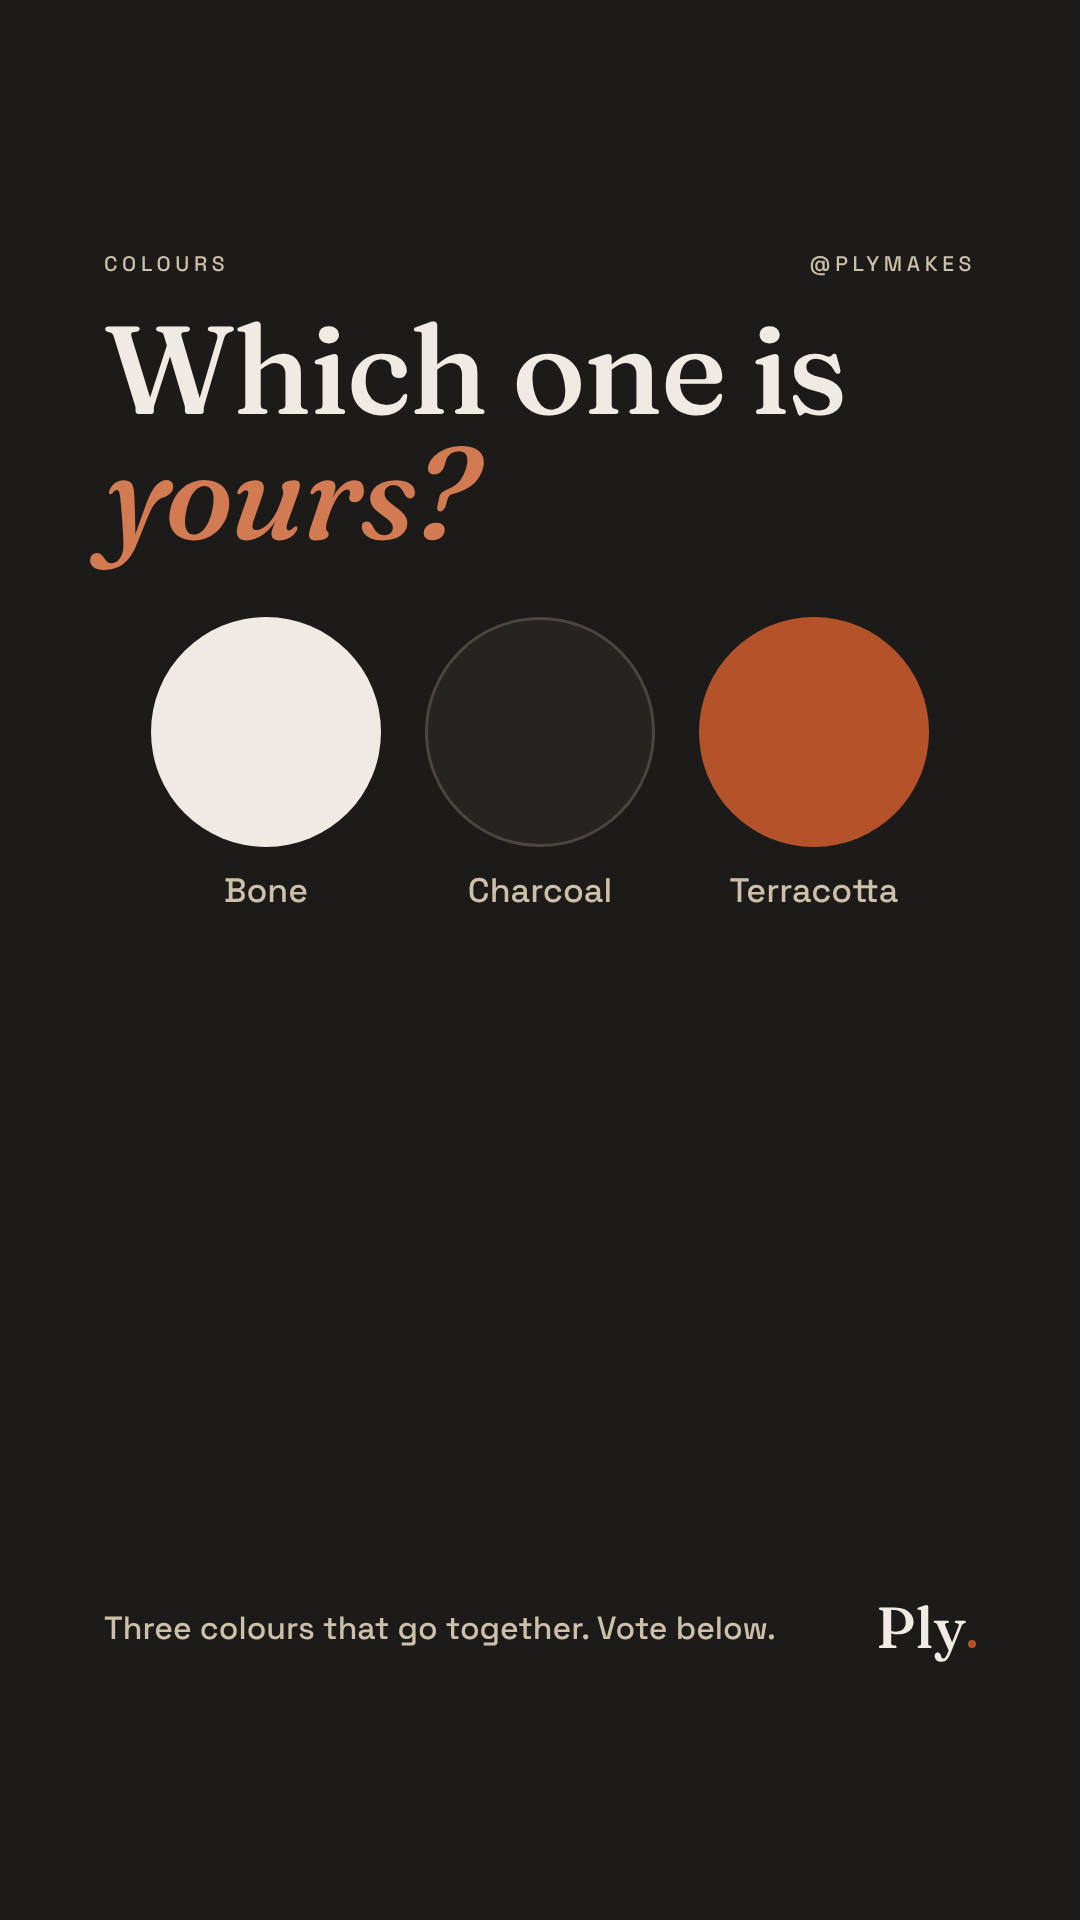
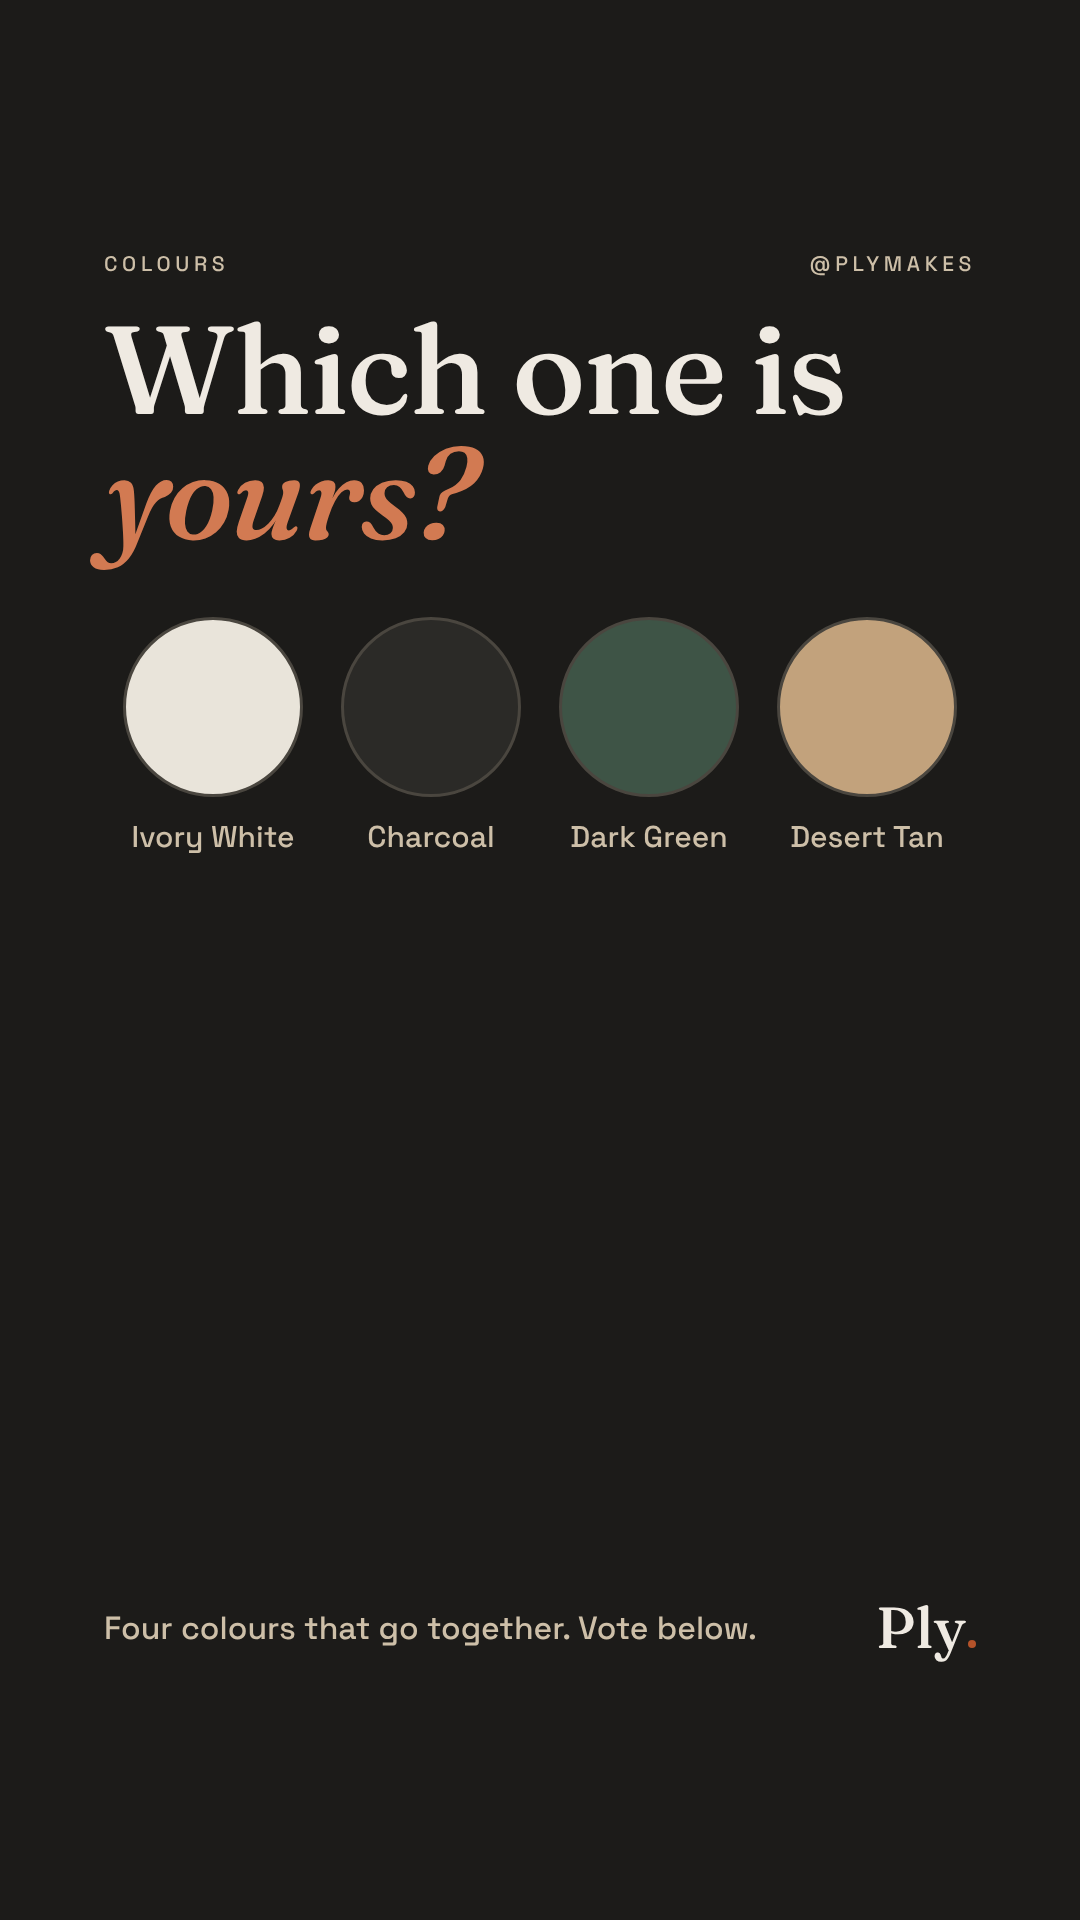
Stories 07-17 with labelled renders; story kit 04 redone for the four product colours; render Reel generator
Claude-Session: https://claude.ai/code/session_01P3SEcsEDtCsPBtCFZ7pCzX

Changed region(s): [[0.0917, 0.3125, 0.8861, 0.4688], [0.2139, 0.8438, 0.7028, 0.875], [0.0917, 0.8438, 0.1833, 0.875]]

diff --git a/tools/reels_renders_2026_10_19.py b/tools/reels_renders_2026_10_19.py
@@ -1,0 +1,138 @@
+"""Reels built from the Quilt and Tile studio renders (19 Oct 2026: Geoffry allowed renders on Instagram, labelled as 3D renders).
+Same engine as reels.py / reels_brand.py; images come from shop/products and shop/banners.
+Usage: python3 tools/reels_renders_2026_10_19.py [name-filter] -> build/<name>-v3.mp4 (+ -v3-preview.png)
+"""
+import runpy, sys
+from pathlib import Path
+flt = sys.argv[1:]
+m = runpy.run_path(str(Path(__file__).resolve().parent / 'reels.py'), run_name='lib')
+C, SU, R, I, P, end_card, render = m['C'], m['SU'], m['R'], m['I'], m['P'], m['end_card'], m['render']
+ROOT = Path(__file__).resolve().parent.parent
+ACC_D, ACC_L = '#D27A52', '#9C4421'
+
+
+def img(name):
+    folder = 'banners' if name.startswith('drainage') else 'products'
+    return (ROOT / 'shop' / folder / name).as_uri()
+
+
+def endc(bg, fg, l2):
+    return end_card(bg, fg, 'Made in layers.<br>Made in Lebanon.', l2).replace('font-size:120px', 'font-size:92px')
+
+
+def head(label, title, fg, lab):
+    return (f'<div id="lab" class="abs label" style="left:100px;top:180px;color:{lab}">{label}</div>'
+            f'<div id="t1" class="abs h" style="left:100px;right:100px;top:250px;font-size:116px;color:{fg}">{title}</div>')
+
+
+def tag(text='3D render'):
+    """Small pill inside an image card so every render is labelled."""
+    return (f'<div style="position:absolute;left:24px;bottom:24px;padding:10px 20px;border-radius:999px;background:rgba(239,234,226,.92);'
+            f'color:{I};font-size:22px;font-weight:500;letter-spacing:.18em;text-transform:uppercase">{text}</div>')
+
+
+def card(id_, src, left, top, w, h, extra='', pos='center'):
+    return (f'<div id="{id_}" class="abs" style="left:{left}px;top:{top}px;width:{w}px;height:{h}px;border-radius:28px;overflow:hidden;opacity:0;{extra}">'
+            f'<img src="{src}" style="width:100%;height:100%;object-fit:cover;object-position:{pos};display:block">{tag()}</div>')
+
+
+HEAD_JS = "show('lab',prog(t,0,.6),30); show('t1',prog(t,.2,.9),40);"
+END_JS = "const e=prog(t,{a},{a}+.5); document.getElementById('end').style.opacity=e; show('e1',prog(t,{a}+.3,{a}+.9),40); show('e2',prog(t,{a}+.7,{a}+1.3),40);"
+
+# ---------- Reel 10: Quilt or Tile? ----------
+reel10 = dict(name='ply-reel-10-quilt-or-tile', dur=10.5, html=f'''
+<div class="abs" style="inset:0;background:{I}"></div>
+{head('Quilt or Tile?', 'Two textures.<br><i style="color:{ACC_D}">Which one?</i>', P, SU)}
+{card('cq', img('quilt-planter-medium-charcoal.jpg'), 90, 640, 430, 560)}
+{card('ct', img('tile-planter-medium-charcoal.jpg'), 560, 640, 430, 560)}
+<div id="lq" class="abs" style="left:90px;width:430px;top:1230px;text-align:center;color:{P};opacity:0"><div class="h" style="font-size:120px">Q</div><div style="font-size:36px;font-weight:500;letter-spacing:.22em;margin-top:6px">QUILT</div></div>
+<div id="lt" class="abs" style="left:560px;width:430px;top:1230px;text-align:center;color:{P};opacity:0"><div class="h" style="font-size:120px">T</div><div style="font-size:36px;font-weight:500;letter-spacing:.22em;margin-top:6px">TILE</div></div>
+<div id="t2" class="abs" style="left:100px;right:100px;top:1470px;font-size:46px;font-weight:500;color:{P};opacity:0">Same planter, two textures.<br>Comment Q or T.</div>
+{endc(C, P, 'Comment Q or T,<br>then DM “FIRST” for first pick')}
+''', js='''
+window.setT=t=>{ ''' + HEAD_JS + '''
+  const a=prog(t,1.0,1.7), b=prog(t,1.6,2.3);
+  const q=document.getElementById('cq'), w=document.getElementById('ct');
+  q.style.opacity=a; q.style.transform=`translateX(${(1-a)*-520}px)`;
+  w.style.opacity=b; w.style.transform=`translateX(${(1-b)*520}px)`;
+  show('lq',prog(t,2.3,2.9),30); show('lt',prog(t,2.6,3.2),30);
+  const pulse=t>3.6&&t<7.2?Math.floor((t-3.6)/0.9)%2:-1;
+  q.style.boxShadow=pulse===0?`0 0 0 8px ${'#D27A52'}`:'none'; w.style.boxShadow=pulse===1?`0 0 0 8px ${'#D27A52'}`:'none';
+  show('t2',prog(t,3.4,4.0),30); ''' + END_JS.format(a=7.4) + '''
+};''')
+
+# ---------- Reel 11: four colours ----------
+cols = [('ivory', 'Ivory White', '#E9E4DA'), ('charcoal', 'Charcoal', '#2B2A27'), ('green', 'Dark Green', '#3E5446'), ('tan', 'Desert Tan', '#C2A27C')]
+big = ''.join(card(f'b{k}', img(f'quilt-planter-small-{c}.jpg'), 160, 560, 760, 760) for k, (c, _, _) in enumerate(cols))
+names = ''.join(f'<div id="n{k}" class="abs" style="left:0;right:0;top:1360px;display:flex;justify-content:center;align-items:center;gap:22px;opacity:0">'
+                f'<span style="width:44px;height:44px;border-radius:50%;background:{sw};border:2px solid #8A857C"></span>'
+                f'<span class="h" style="font-size:72px;color:{I}">{n}</span></div>' for k, (_, n, sw) in enumerate(cols))
+grid = ''.join(f'<div id="g{k}" class="abs" style="left:{160 + (k % 2) * 390}px;top:{560 + (k // 2) * 390}px;width:370px;height:370px;border-radius:24px;overflow:hidden;opacity:0">'
+               f'<img src="{img(f"quilt-planter-small-{c}.jpg")}" style="width:100%;height:100%;object-fit:cover;display:block">'
+               f'<div style="position:absolute;left:18px;bottom:18px;padding:8px 16px;border-radius:999px;background:rgba(239,234,226,.92);color:{I};font-size:22px;font-weight:500">{n}</div></div>'
+               for k, (c, n, _) in enumerate(cols))
+reel11 = dict(name='ply-reel-11-four-colours', dur=11.5, html=f'''
+<div class="abs" style="inset:0;background:{P}"></div>
+{head('Four colours', 'Pick <i style="color:{ACC_L}">yours.</i>', I, I)}
+{big}{names}{grid}
+<div id="gt" class="abs" style="left:160px;width:760px;top:1350px;font-size:22px;font-weight:500;letter-spacing:.18em;color:#6E6A63;opacity:0">3D RENDERS · QUILT PLANTER, SMALL</div>
+<div id="t2" class="abs" style="left:100px;right:100px;top:1420px;font-size:46px;font-weight:500;color:{I};opacity:0">Chosen to sit together.<br>Comment the one that’s yours.</div>
+{endc(I, P, 'Which one is yours?<br>DM “FIRST” to join the First Layer')}
+''', js='''
+window.setT=t=>{ ''' + HEAD_JS + '''
+  for(let k=0;k<4;k++){ const a=0.9+k*1.15;
+    const inn=prog(t,a,a+.4), out=k<3?prog(t,a+1.15,a+1.5):prog(t,5.6,5.9);
+    document.getElementById('b'+k).style.opacity=Math.min(inn,1-out);
+    show('n'+k,Math.min(prog(t,a+.1,a+.4),1-out),20);
+    const g=prog(t,5.8+k*.15,6.2+k*.15); const ge=document.getElementById('g'+k); ge.style.opacity=g; ge.style.transform=`scale(${.9+.1*g})`; }
+  show('gt',prog(t,6.3,6.7)); show('t2',prog(t,6.6,7.2),30); ''' + END_JS.format(a=8.8) + '''
+};''')
+
+# ---------- Reel 12: seven holes, hidden tray ----------
+steps = [('1', 'Seven holes in a raised floor'), ('2', 'A drip tray hidden underneath'), ('3', 'Twist it off, empty, click it back')]
+lines = ''.join(f'<div id="s{k}" class="abs" style="left:100px;right:100px;top:{1330 + k * 78}px;display:flex;align-items:baseline;gap:26px;opacity:0">'
+                f'<span class="h" style="font-size:64px;color:{ACC_L}">{n}</span><span style="font-size:42px;font-weight:500;color:{I}">{t}</span></div>' for k, (n, t) in enumerate(steps))
+reel12 = dict(name='ply-reel-12-hidden-tray', dur=12.0, html=f'''
+<div class="abs" style="inset:0;background:{SU}"></div>
+{head('How it drains', 'No saucer<br><i style="color:{ACC_L}">on show.</i>', I, I)}
+{card('cd', img('drainage-square.jpg'), 100, 540, 880, 742, pos='top')}
+{lines}
+{endc(I, P, 'Roots never sit in water.<br>DM “FIRST” to join the First Layer')}
+''', js='''
+window.setT=t=>{ ''' + HEAD_JS + '''
+  const c=prog(t,1.0,1.7); const d=document.getElementById('cd'); d.style.opacity=c; d.style.transform=`scale(${.94+.06*c})`;
+  for(let k=0;k<3;k++) show('s'+k,prog(t,2.2+k*1.4,2.7+k*1.4),30);
+  ''' + END_JS.format(a=8.6) + '''
+};''')
+
+# ---------- Reel 13: why tiles (old Beirut floors) ----------
+N, S, G = 6, 112, 10
+x0 = (1080 - (N * S + (N - 1) * G)) // 2
+motif_cols = [(P, C), (SU, I), (R, P), (P, I)]
+tiles = ''
+for r in range(N):
+    for c in range(N):
+        bg, dot = motif_cols[(r + c) % 4] if (r + c) % 2 else motif_cols[(r * 3 + c) % 4]
+        inner = (f'<div style="position:absolute;inset:22px;border-radius:50%;background:{dot}"></div>' if (r + c) % 2 == 0 else
+                 f'<div style="position:absolute;left:50%;top:50%;width:52px;height:52px;margin:-26px 0 0 -26px;transform:rotate(45deg);background:{dot}"></div>')
+        tiles += (f'<div class="tl abs" data-d="{r + c}" style="left:{x0 + c * (S + G)}px;top:{680 + r * (S + G)}px;width:{S}px;height:{S}px;border-radius:18px;'
+                  f'background:{bg};overflow:hidden;opacity:0">{inner}</div>')
+reel13 = dict(name='ply-reel-13-why-tiles', dur=11.5, html=f'''
+<div class="abs" style="inset:0;background:{C}"></div>
+{head('Why tiles?', 'Beirut floors.<br><i style="color:{P}">A new shape.</i>', P, P)}
+<div id="grid">{tiles}</div>
+{card('cp', img('tile-planter-medium-tan.jpg'), 170, 660, 740, 740)}
+<div id="t2" class="abs" style="left:100px;right:100px;top:1450px;font-size:44px;font-weight:500;color:{P};opacity:0">The Tile planter borrows the grid of<br>the cement tiles in old Lebanese homes.</div>
+{endc(I, P, 'First prints in November.<br>DM “FIRST” to join the First Layer')}
+''', js='''
+const tl=[...document.querySelectorAll('.tl')];
+window.setT=t=>{ ''' + HEAD_JS + '''
+  const out=prog(t,3.6,4.2);
+  tl.forEach(e=>{ const d=+e.dataset.d; const p=prog(t,1.0+d*0.16,1.35+d*0.16); e.style.opacity=Math.min(p,1-out); e.style.transform=`scale(${.6+.4*p})`; });
+  const c=prog(t,4.0,4.7); const cp=document.getElementById('cp'); cp.style.opacity=c; cp.style.transform=`scale(${.92+.08*c})`;
+  show('t2',prog(t,5.0,5.6),30); ''' + END_JS.format(a=8.6) + '''
+};''')
+
+for r in (reel10, reel11, reel12, reel13):
+    if not flt or any(f in r['name'] for f in flt):
+        render(r)

diff --git a/tools/stories_2026_10_19.py b/tools/stories_2026_10_19.py
@@ -1,0 +1,109 @@
+"""Stories for 20 Oct - 1 Nov 2026 (copied from stories_2026_10_18.py; only the content changes).
+Since 19 Oct 2026 Geoffry allows the Quilt and Tile renders on Instagram, always labelled "3D render".
+Scheduled Stories carry no sticker; kit Stories (posted by hand) leave the lower half free for a sticker.
+Usage: python3 tools/stories_2026_10_19.py [name-filter] -> build/<name>.png
+"""
+import runpy, sys
+from pathlib import Path
+from playwright.sync_api import sync_playwright
+flt = sys.argv[1:]
+sys.argv = ['x', 'zzz-render-nothing']
+m = runpy.run_path(str(Path(__file__).resolve().parent / 'atelier_posts.py'))
+C, SU, R, I, P, page, stagger, CSS = m['C'], m['SU'], m['R'], m['I'], m['P'], m['page'], m['stagger'], m['CSS']
+CSS = CSS.replace('body{width:1080px;height:1350px', 'body{width:1080px;height:1920px').replace(
+    '.p{width:1080px;height:1350px;padding:96px 104px 88px', '.p{width:1080px;height:1920px;padding:250px 104px 270px')
+ROOT = Path(__file__).resolve().parent.parent
+ACC_L, ACC_D = '#9C4421', '#D27A52'
+
+
+def it(word, bg):
+    return f'<i style="color:{ACC_D if bg == I else (P if bg == C else ACC_L)}">{word}</i>'
+
+
+def src(name):
+    return (ROOT / 'shop' / ('banners' if name.startswith('drainage') else 'products') / name).as_uri()
+
+
+def rcard(name, w=760, h=760, pos='center', zoom=1.0, label='3D render'):
+    """A render in a rounded card with the '3D render' pill."""
+    return (f'<div style="position:relative;width:{w}px;height:{h}px;border-radius:32px;overflow:hidden;flex-shrink:0">'
+            f'<img src="{src(name)}" style="width:100%;height:100%;object-fit:cover;object-position:{pos};transform:scale({zoom});transform-origin:{pos};display:block">'
+            f'<div style="position:absolute;left:24px;bottom:24px;padding:10px 20px;border-radius:999px;background:rgba(239,234,226,.92);color:{I};'
+            f'font-size:22px;font-weight:500;letter-spacing:.18em;text-transform:uppercase">{label}</div></div>')
+
+
+def pair(a, b, w=420, h=560):
+    return f'<div style="display:flex;gap:32px">{rcard(a, w, h)}{rcard(b, w, h)}</div>'
+
+
+def top(html, space=520):
+    return f'<div style="display:flex;flex-direction:column;align-items:center;justify-content:flex-start;height:100%;width:100%;padding-top:60px">{html}<div style="height:{space}px"></div></div>'
+
+
+stories = {}
+
+# Scheduled · Tue 20 Oct 12:00 · bone · About
+stories['ply-story-07-meet-the-quilt'] = page(P, 'New', f'Meet the {it("Quilt.", P)}', rcard('quilt-planter-medium-ivory.jpg'),
+    'A soft diamond quilt, in a calm matte finish. First prints in November.', hsize=128)
+
+# Scheduled · Wed 21 Oct 20:00 · charcoal · About
+stories['ply-story-08-meet-the-tile'] = page(I, 'New', f'Meet the {it("Tile.", I)}', rcard('tile-planter-medium-charcoal.jpg'),
+    'A grid of soft squares, a nod to the cement-tile floors of old Beirut homes.', hsize=128)
+
+# Scheduled · Thu 22 Oct 12:00 · sand · Ideas · close-up of the texture
+stories['ply-story-09-up-close'] = page(SU, 'Up close', f'Feel the {it("quilt.", SU)}', rcard('quilt-planter-small-tan.jpg', 840, 840, pos='50% 62%', zoom=1.9, label='3D render · close-up'),
+    'Each diamond is a soft little pillow, built from hundreds of thin layers.', hsize=128)
+
+# Scheduled · Fri 23 Oct 12:00 · terracotta · About
+stories['ply-story-10-designed-here'] = page(C, 'Made in Lebanon', f'Designed here.<br>{it("Printed here.", C)}', rcard('tile-set-tan.jpg', 760, 720),
+    'Every piece is printed in Lebanon, one at a time, on our own printer.', hsize=120)
+
+# Scheduled · Sat 24 Oct 20:00 · clay · How it works
+stories['ply-story-11-seven-holes'] = page(R, 'How it drains', f'Seven holes.<br>{it("One hidden tray.", R)}', rcard('drainage-square.jpg', 840, 708, pos='top'),
+    'Extra water runs into a tray under the pot. Twist it off to empty, click it back on.', hsize=116)
+
+# Scheduled · Sun 25 Oct 20:00 · bone · About · First Layer how-to (no render)
+stories['ply-story-12-join-first-layer'] = page(P, 'The First Layer', f'Want first {it("pick?", P)}',
+    stagger([('1 · Send us a DM', I, P), ('2 · Type “FIRST”', C, P), ('3 · That’s it', SU, I)], size=56, pad='30px 54px', step=44, gap=26),
+    'First look at every piece, first pick of the small first batch. Free, no commitment.', hsize=128)
+
+# Scheduled · Mon 26 Oct 12:00 · charcoal · Ideas
+stories['ply-story-13-dark-green'] = page(I, 'Colour', f'Dark {it("Green.", I)}', rcard('quilt-vase-green.jpg', 760, 840),
+    'Deep and calm, like the cedar and pine forests in our mountains.', hsize=140)
+
+# Scheduled · Tue 27 Oct 20:00 · sand · How it works · fact (no render)
+leaf = f'''<svg width="420" height="420" viewBox="0 0 300 300"><circle cx="150" cy="150" r="150" fill="{P}"/>
+<path d="M150 235 C 85 200, 75 115, 150 62 C 225 115, 215 200, 150 235 Z" fill="#6F7D5C"/><path d="M150 235 L150 92" stroke="{P}" stroke-width="6" stroke-linecap="round"/></svg>'''
+stories['ply-story-14-pla-from-plants'] = page(SU, 'Did you know?', f'Made from {it("plants.", SU)}', leaf,
+    'PLA, the material we print with, comes from plant starch such as corn or sugarcane.', hsize=128)
+
+# Scheduled · Wed 28 Oct 12:00 · clay · Ideas
+stories['ply-story-15-dried-stems'] = page(R, 'Styling', f'Dried stems,<br>{it("all year.", R)}', rcard('tile-vase-tan.jpg', 760, 780),
+    'Our vases hold dried or faux stems: bunny tails, pampas, wheat. They last for months.', hsize=120)
+
+# Scheduled · Fri 30 Oct 12:00 · bone · Ideas
+stories['ply-story-16-small-or-medium'] = page(P, 'Sizes', f'Small or {it("medium?", P)}', pair('tile-planter-small-green.jpg', 'tile-planter-medium-green.jpg'),
+    'Small for a succulent on the desk. Medium for a fuller herb or a small houseplant.', hsize=128)
+
+# Scheduled · Sat 31 Oct 12:00 · terracotta · Christmas
+stories['ply-story-17-housewarming'] = page(C, 'Gifting', f'A gift for a<br>{it("new home.", C)}', rcard('quilt-set-charcoal.jpg', 760, 760),
+    'A planter and its matching vase, packed together. First pieces arrive before Christmas.', hsize=112)
+
+# Kit 4 (redone) · Thu 29 Oct · charcoal · Poll sticker with four options · Ideas
+sw = '<div style="display:grid;grid-template-columns:repeat(4,190px);gap:28px">' + ''.join(
+    f'<div style="display:flex;flex-direction:column;align-items:center;gap:20px"><div style="width:180px;height:180px;border-radius:50%;background:{c};border:3px solid #4A463F"></div>'
+    f'<div style="font-size:30px;font-weight:500;color:{SU};text-align:center;white-space:nowrap">{n}</div></div>'
+    for c, n in (('#E9E4DA', 'Ivory White'), ('#2B2A27', 'Charcoal'), ('#3E5446', 'Dark Green'), ('#C2A27C', 'Desert Tan'))) + '</div>'
+stories['ply-story-04-your-colour'] = page(I, 'Colours', f'Which one is {it("yours?", I)}', top(sw, 560),
+    'Four colours that go together. Vote below.', hsize=128)
+
+out = ROOT / 'build'; out.mkdir(exist_ok=True)
+with sync_playwright() as p:
+    b = p.chromium.launch(); pg = b.new_page(viewport={'width': 1080, 'height': 1920})
+    for name, html in stories.items():
+        if flt and not any(f in name for f in flt):
+            continue
+        f = out / f'{name}.html'; f.write_text(f'<html><head><meta charset="utf-8"><style>{CSS}</style></head><body>{html}</body></html>')
+        pg.goto(f.as_uri()); pg.wait_for_timeout(500); pg.screenshot(path=str(out / f'{name}.png'))
+    b.close()
+print(len(stories), 'stories')
